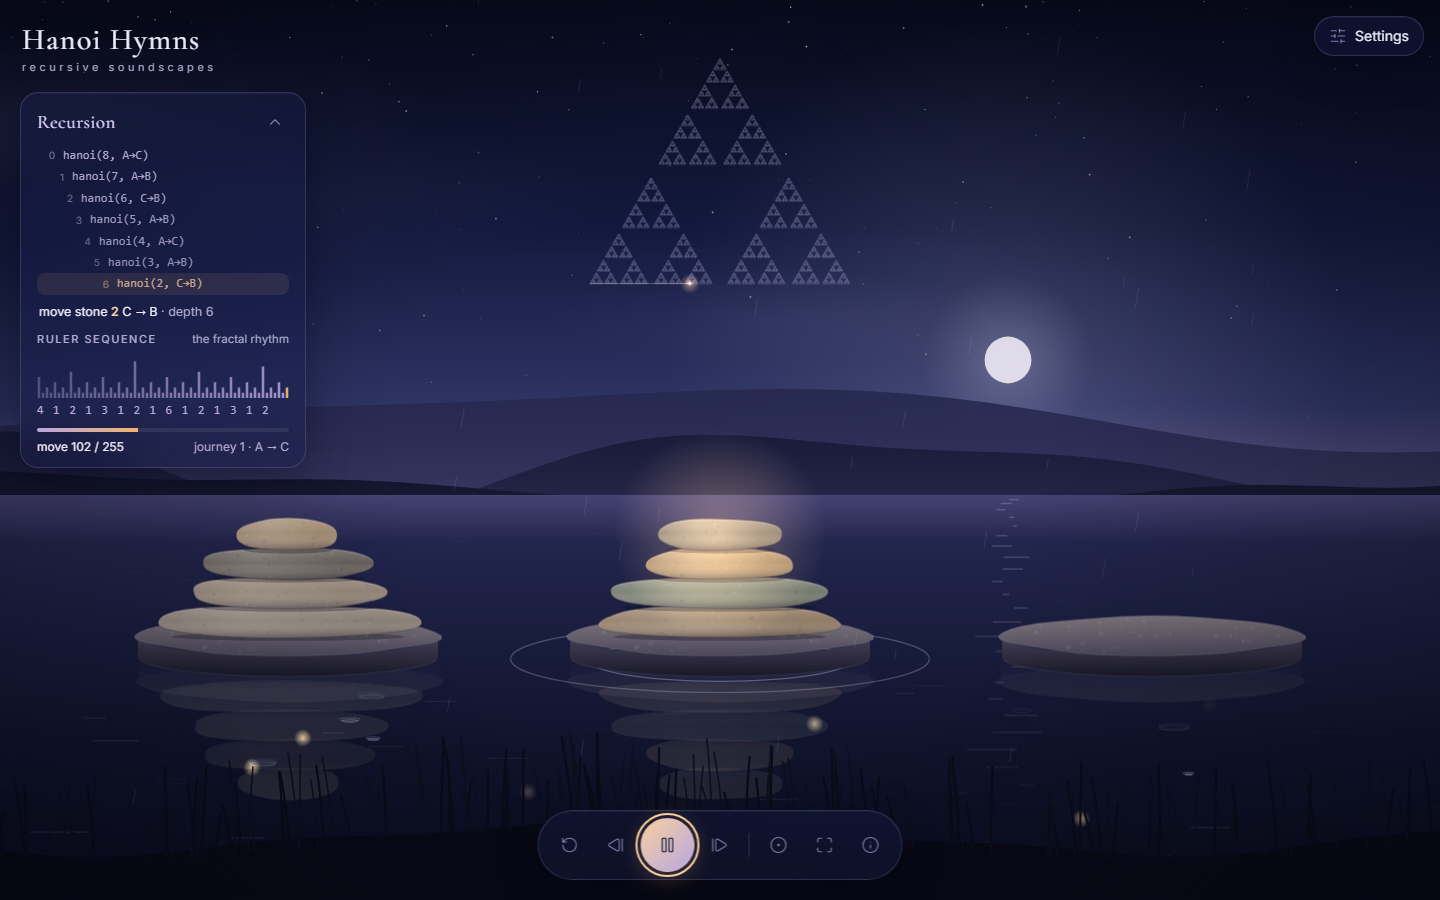
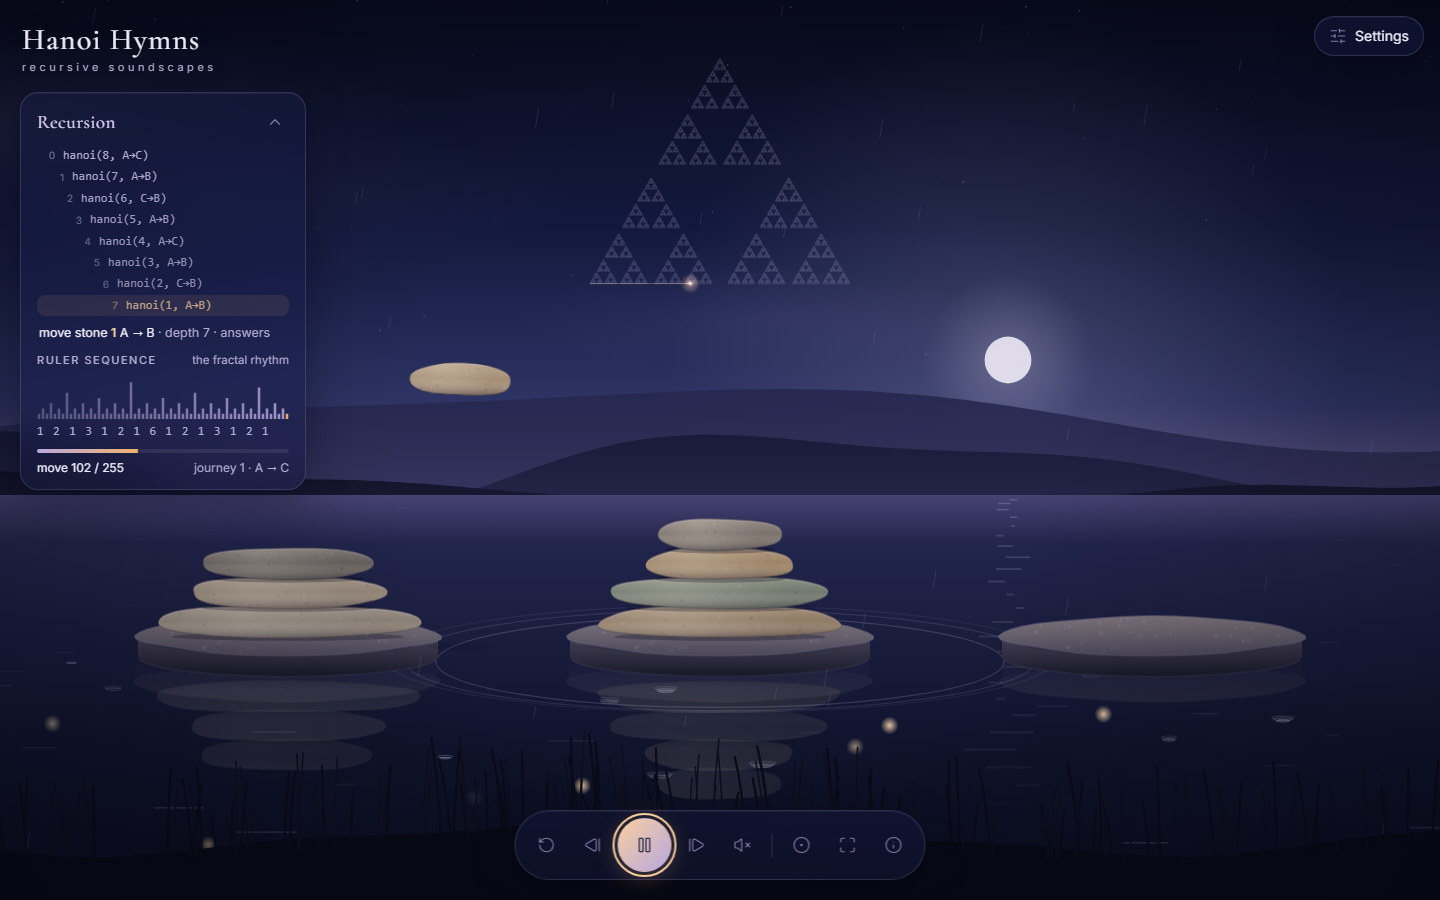
docs: refresh README screenshots from the production build
Captured from the production build served locally (vite preview of dist/),
same output as the Vercel deployment; the Vercel URL was unreachable from
this network.

diff --git a/README.md b/README.md
@@ -8,7 +8,7 @@ A calm riverside at dusk. River stones rest on three flat rocks in the water. A 
 Tower of Hanoi** carries them across, one by one — and every move rings a singing bowl, a kalimba
 or a warm pad. The recursion doesn't just *drive* the music: it **is** the music.
 
-![Hanoi Hymns — Morning Mist: the call stack at depth 2, the Sierpinski constellation in the sky](docs/screenshot-main.png)
+![Hanoi Hymns — Morning Mist: a stone mid-flight at call-stack depth 4, the Sierpinski constellation in the sky](docs/screenshot-main.png)
 
 | Deep Sleep (8 stones, move 102 / 255 on the Sierpinski path) | Mobile |
 |---|---|
